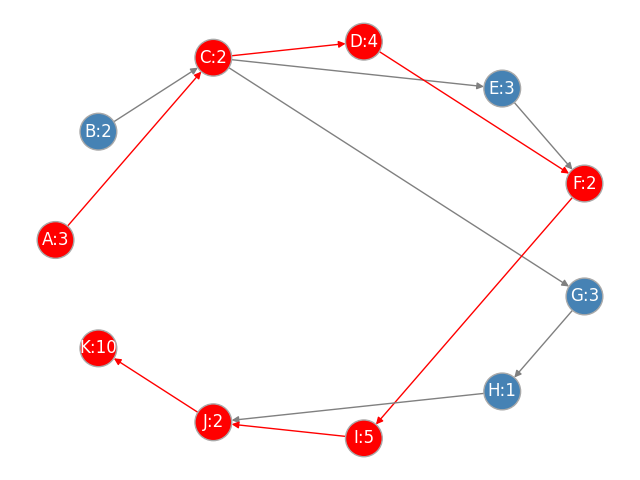
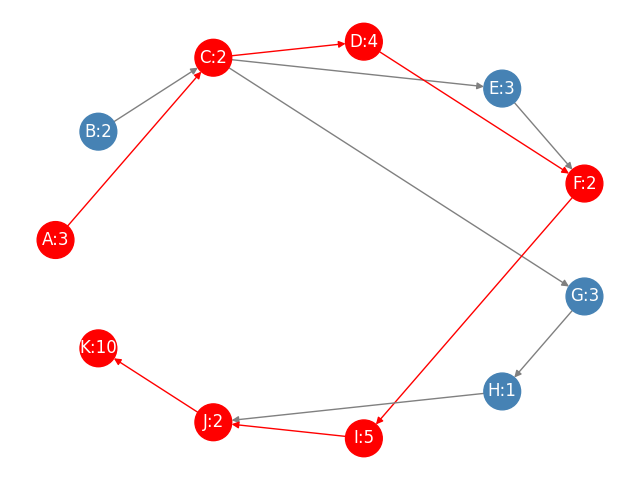
Minor update: Remove the gray circle of the nodes

diff --git a/dag_draft_v02.py b/dag_draft_v02.py
@@ -141,7 +141,7 @@ edge_colors = ['red' if edge in edges_lp else 'grey' for edge in G.edges()]
 
 # Draw DAG
 nx.draw(G, pos, with_labels=True, font_color='white', edge_color=edge_colors,
-        edgecolors='darkgray', node_color=node_col, node_size=700)
+        node_color=node_col, node_size=700)
 
 # Save graph plot to file and display it
 filename = filename + '.png'
